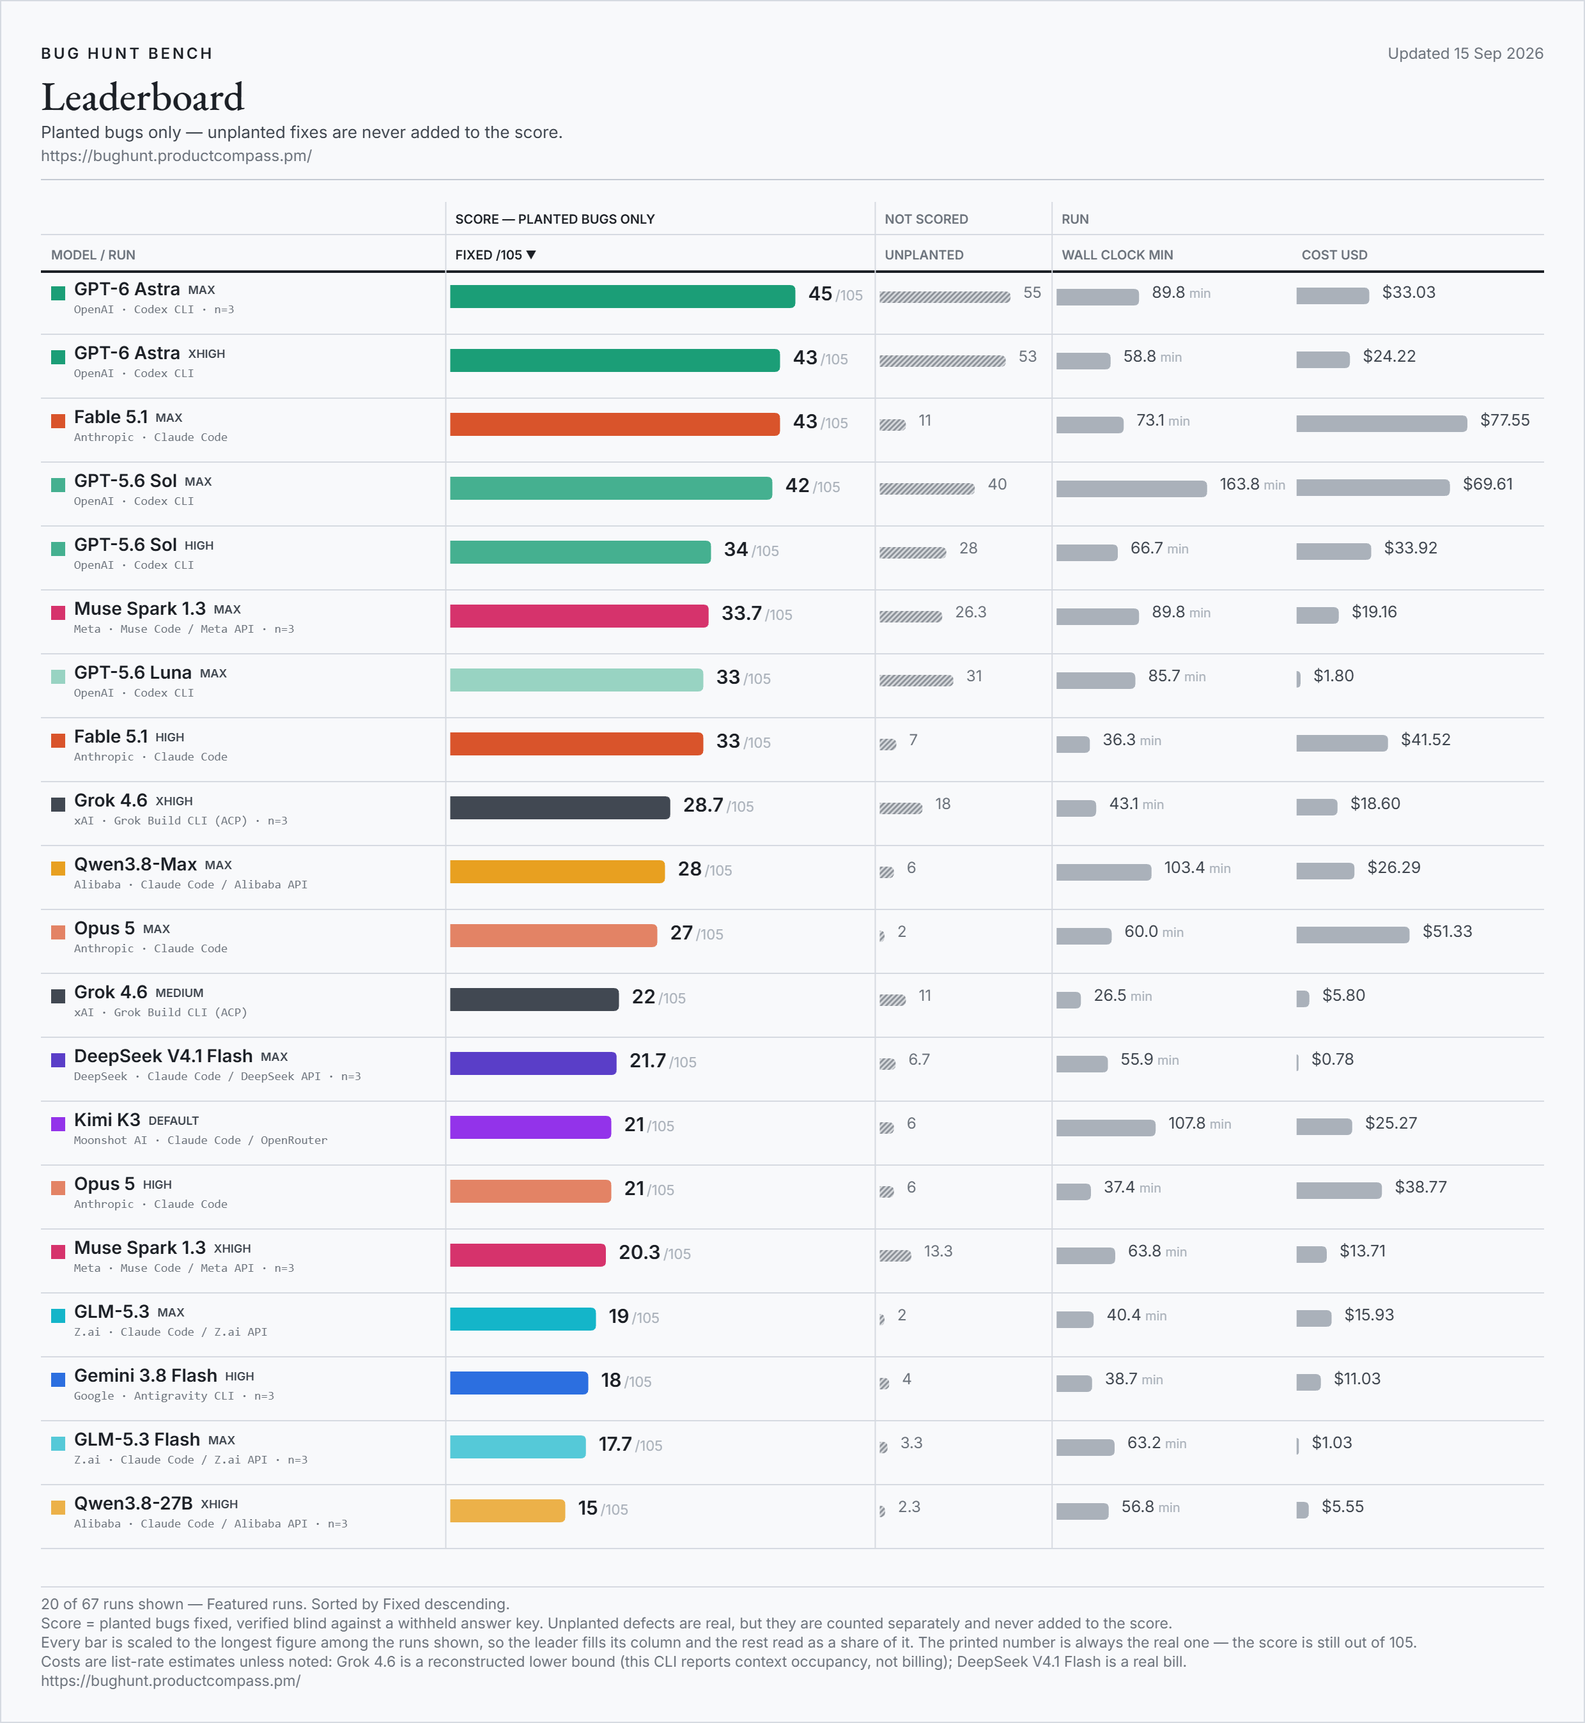
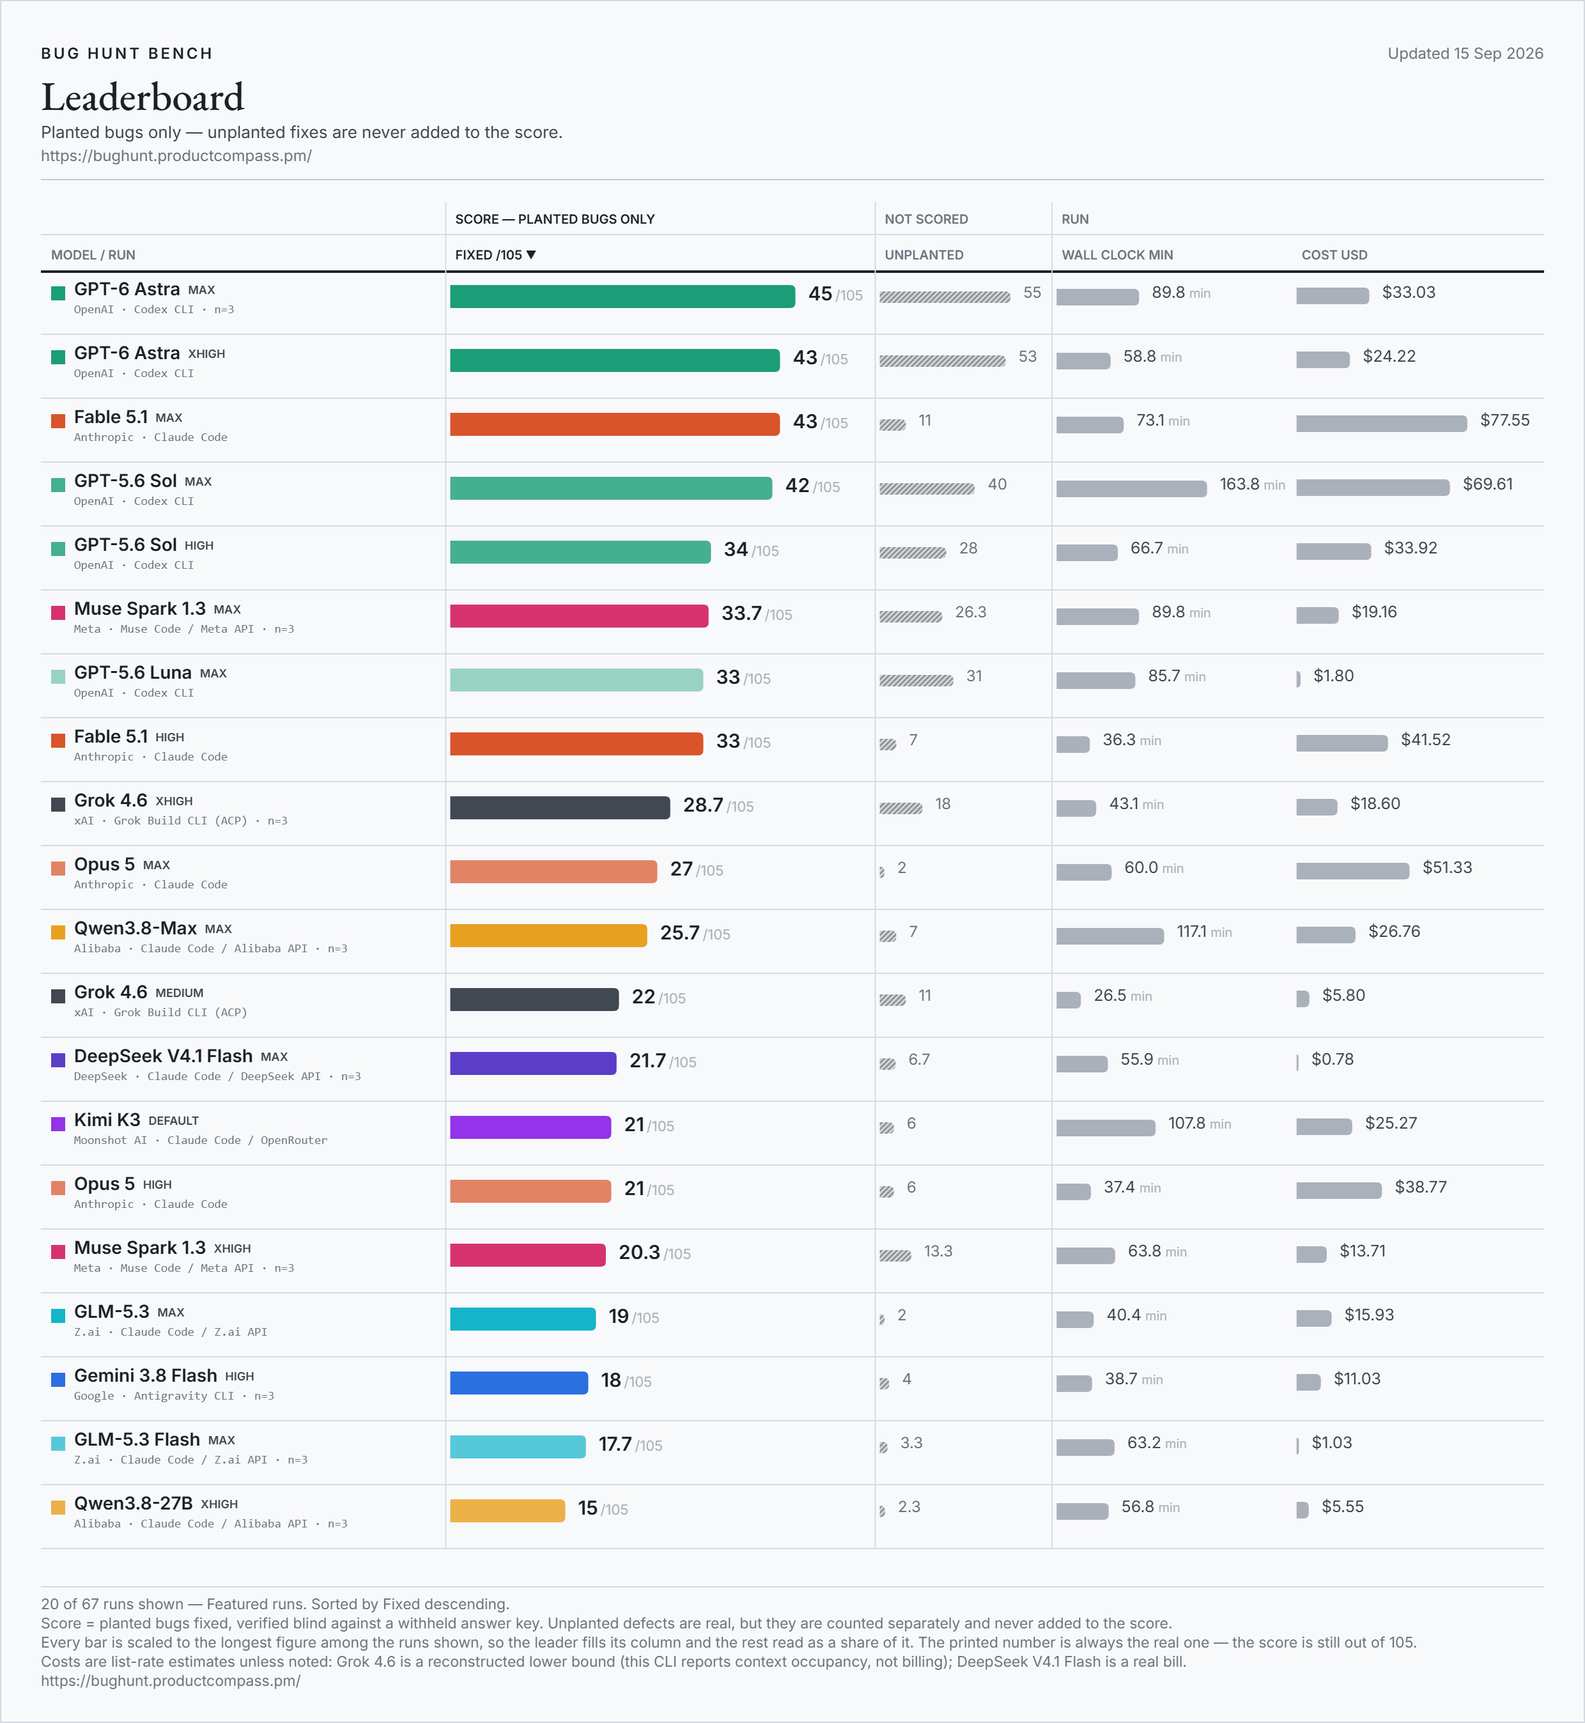
bug hunt bench: Qwen3.8-Max (max effort, Alibaba API) - mean of 3 (25.7/105)

diff --git a/results/run-notes.md b/results/run-notes.md
@@ -2,7 +2,7 @@
 
 Every row on the board, with the note and caveat it carries. Generated from `data/benchmark.json` by `bench_golive.py` - do not edit by hand.
 
-Updated Sep 15, 2026 · 89 rows from 111 scored runs. Superseded rows are listed last.
+Updated Sep 15, 2026 · 90 rows from 114 scored runs. Superseded rows are listed last.
 
 ## GPT-6 Astra (max effort) - mean of 3
 
@@ -96,14 +96,6 @@ The row that completes Fable 5.1's dial, and the one that shows the dial does no
 
 The FIRST configuration outside Meta's effort dial to be run three times, published as the MEAN OF THREE INDEPENDENT RUNS. Runs scored 27, 30 and 29 of 105 (repo 1: 8, 14, 13 - repo 2: 19, 16, 16). Mean 28.7, range 3. *** WHAT THIS CORRECTS IS AN INFERENCE, NOT A NUMBER *** The single run this replaces scored 27, and its note read that as settled because the 2026-08-12 concurrent-legs run had also scored 27 - 'n=2 agreement'. Two further sequential runs came in at 30 and 29. The 27 was correct for the run that produced it; what does not survive is treating a pair of agreeing draws as a measurement of the rung. Both 27s sit at the bottom of the range this configuration actually spans. *** WHERE THE MOVEMENT IS, AND WHAT THAT IS WORTH *** The three totals span 3 points, but the per-repo legs span more: repo 1 scored 8, 14 and 13 of 45, repo 2 scored 19, 16 and 16 of 60. The repo-1 range alone is 6 points on a 45-bug repo, wider than the range of the totals it feeds. The legs moved in opposite directions and the totals landed close together. That is an OBSERVATION about three runs and nothing more - it is not a mechanism, and it is not a claim that totals are steadier than legs. Three draws cannot establish that, and this pattern arises from chance often enough to be unremarkable. *** RECEIPTS *** All six legs exited 0. Per-leg (repo 1 / repo 2): wall 19.1/22.0, 18.8/23.5 and 23.9/21.9 minutes; floor 6.84/10.12, 9.38/8.59 and 13.57/7.30 dollars. Genuine extras 16, 16 and 22. Claimed-only 1, 0 and 1, all on repo 1. COST IS A FLOOR, NOT A BILL: the grok CLI reports context occupancy rather than cumulative usage, so every grok row on this board is reconstructed from the CLI's own session logs at xAI list rates. The three floors are 16.96, 17.96 and 20.88 dollars and this row shows their mean. That spread is not pricing noise - the reconstruction scales with how many inference requests a run made (106, 118 and 128 across the three), so it tracks real differences in how much work the agent did. SEQUENTIAL legs throughout - one repo at a time, one machine, one key - which is what 'seq' means in the name and why this wall is comparable to the rest of the board. Effort verified active by a fresh zero-token ACP readback before each launch. Judge: Codex gpt-5.5 on all six legs.
 
-## Qwen3.8-Max (max effort, Alibaba API)
-
-**28 / 105** · repo 1 13/45 · repo 2 15/60 · 6 unplanted · 103.4 min · $26.29 · `max` · Claude Code / Alibaba API · single run · 2026-09-11
-
-**Caveat.** One run at this tier. The effort ceiling is real but flat: the same probe shows high (9946-14061), xhigh (8266-19309) and max (6542-14902) are mutually indistinguishable with means that fall as the nominal tier rises, so max is the top of the dial and buys nothing measurable over high - the same two-rung shape the Qwen3.8-Flash probe found, which suggests it is a property of Alibaba's serving rather than of either model. Note also that this endpoint's accept-list CONTRADICTS the QwenCloud doc the superseded row relied on (low|medium|xhigh with high->xhigh), which is one more reason that row's tier claim was never safe. Cost is a list-price ESTIMATE and not a bill - DashScope exposes no credits API on this path - computed from the run's own token counts at 2.00 in / 2.50 cache-write / 0.25 cache-read / 6.00 out per MTok, from OpenRouter's Alibaba-endpoint listing. Finally, do NOT read the 9-point gain as caused by the path. It is n=1 against n=1 and almost all of it is one repo - repo 1 went 5/45 to 13/45 while repo 2 moved by one - and this board has seen the same model at the same setting swing 6 points on repo 1 (Opus 5 at medium: 11/8/14). A systematic path effect should have moved both repos and did not, so the score difference is unexplained and may simply be variance. What the pair DOES establish beyond variance is the cost and token behaviour, where the gap is ~5,000x and not a coin flip.
-
-The Aug 3 Qwen3.8-Max row re-run on Alibaba's OWN Anthropic-compatible endpoint - no local proxy, no aggregator - and it is the clearest demonstration on this board that a row records a SERVING PATH and not just a model. Same model, same harness, same two repos, same laptop, one hop removed: 28/105 against 19/105, 103.4 min against 148.1, $26.29 against $33.30. Nine points more for a fifth less money and a third less time, and the gain is concentrated in repo 1, which went 5/45 to 13/45. The mechanism is visible in the token columns. The OpenRouter run billed 12.94% of its prompt tokens as UNCACHED INPUT - 8,282,777 of them, $16.57, half that row's cost - while this one billed 0.0019%, or 1,716 tokens across both legs. Caching that keeps working means the model keeps its context instead of rebuilding it, which is why output ROSE 23% (168,395 tokens against 136,426) while wall time FELL: it did more thinking and less re-reading. Effort here is measured, not requested - the endpoint 400-rejects an invented tier and names its accept-list (low, medium, high, xhigh, max), and an n=3-per-tier probe on this exact path separates the bottom of the dial cleanly (mean output tokens low=4495 against high=12422, low's range overlapping none of the top three, 3.09x between-tier ratio against a 2.34x worst within-tier spread). 28 strict matches, 2 partials, 3 claimed-only, 6 genuine unplanted extras.
-
 ## GPT-6 Astra (low effort)
 
 **27 / 105** · repo 1 18/45 · repo 2 9/60 · 25 unplanted · 32.1 min · $11.69 · `low` · Codex CLI · single run · 2026-09-05
@@ -125,6 +117,14 @@ The top of Alibaba's own accept-list on Alibaba's own Anthropic-compatible endpo
 **26 / 105** · repo 1 14/45 · repo 2 12/60 · 3 unplanted · 49.9 min · $59.59 · `xhigh` · Claude Code · single run · 2026-08-28
 
 The Opus dial is nearly flat at the top: high 21, medium 24, xhigh 26, max 27.
+
+## Qwen3.8-Max (max effort, Alibaba API) - mean of 3
+
+**25.7 / 105** · repo 1 12.3/45 · repo 2 13.3/60 · 7 unplanted · 117.1 min · $26.76 · `max` · Claude Code / Alibaba API · mean of 3 runs · 2026-09-15
+
+**Caveat.** Superseded row: the single 28/105 run published 2026-09-11 stays on the board, marked superseded, not deleted - it is the best of the three, and the mean is the number the board leads with per the standing rule that a rung measured three times publishes at n=3.
+
+Runs scored 28, 24 and 25 of 105 (repo 1: 13, 11, 13 - repo 2: 15, 13, 12). Mean 25.7, range 4. This replication moves the row DOWN, not up: the single run published 2026-09-11 was the best of the three (28), and the mean sits 2.3 points below it - the opposite of the Qwen3.8-27B replication, which held steady on its mean. Regime check: SAME REGIME (gbvb); SAME REGIME (abhb). First-party max effort, Alibaba's own DashScope endpoint, native precision, 1,000,000 declared context - same endpoint and declaration as the superseded single run. Cost quoted here is the MEAN per-run cost across the three legs (26.29, 29.85, 24.15), not their sum; the three runs together cost 80.29 dollars, all list-rate estimates - this endpoint publishes no usage API, so none of these figures are a real bill.
 
 ## Opus 5 (medium effort)
 
@@ -425,6 +425,16 @@ Meta's OWN agent driving Meta's OWN model on Meta's OWN endpoint, at the top of 
 **31 / 105** · repo 1 13/45 · repo 2 18/60 · 38 unplanted · 70.2 min · $29.16 · `high` · Codex CLI · single run · 2026-07-26
 
 **Superseded.** Superseded by the Jul 31 re-run on the same setting (serving-side change, not a new model).
+
+## Qwen3.8-Max (max effort, Alibaba API)
+
+**28 / 105** · repo 1 13/45 · repo 2 15/60 · 6 unplanted · 103.4 min · $26.29 · `max` · Claude Code / Alibaba API · single run · 2026-09-11
+
+**Superseded.** Qwen3.8-Max (max effort, Alibaba API) - mean of 3
+
+**Caveat.** One run at this tier. The effort ceiling is real but flat: the same probe shows high (9946-14061), xhigh (8266-19309) and max (6542-14902) are mutually indistinguishable with means that fall as the nominal tier rises, so max is the top of the dial and buys nothing measurable over high - the same two-rung shape the Qwen3.8-Flash probe found, which suggests it is a property of Alibaba's serving rather than of either model. Note also that this endpoint's accept-list CONTRADICTS the QwenCloud doc the superseded row relied on (low|medium|xhigh with high->xhigh), which is one more reason that row's tier claim was never safe. Cost is a list-price ESTIMATE and not a bill - DashScope exposes no credits API on this path - computed from the run's own token counts at 2.00 in / 2.50 cache-write / 0.25 cache-read / 6.00 out per MTok, from OpenRouter's Alibaba-endpoint listing. Finally, do NOT read the 9-point gain as caused by the path. It is n=1 against n=1 and almost all of it is one repo - repo 1 went 5/45 to 13/45 while repo 2 moved by one - and this board has seen the same model at the same setting swing 6 points on repo 1 (Opus 5 at medium: 11/8/14). A systematic path effect should have moved both repos and did not, so the score difference is unexplained and may simply be variance. What the pair DOES establish beyond variance is the cost and token behaviour, where the gap is ~5,000x and not a coin flip.
+
+The Aug 3 Qwen3.8-Max row re-run on Alibaba's OWN Anthropic-compatible endpoint - no local proxy, no aggregator - and it is the clearest demonstration on this board that a row records a SERVING PATH and not just a model. Same model, same harness, same two repos, same laptop, one hop removed: 28/105 against 19/105, 103.4 min against 148.1, $26.29 against $33.30. Nine points more for a fifth less money and a third less time, and the gain is concentrated in repo 1, which went 5/45 to 13/45. The mechanism is visible in the token columns. The OpenRouter run billed 12.94% of its prompt tokens as UNCACHED INPUT - 8,282,777 of them, $16.57, half that row's cost - while this one billed 0.0019%, or 1,716 tokens across both legs. Caching that keeps working means the model keeps its context instead of rebuilding it, which is why output ROSE 23% (168,395 tokens against 136,426) while wall time FELL: it did more thinking and less re-reading. Effort here is measured, not requested - the endpoint 400-rejects an invented tier and names its accept-list (low, medium, high, xhigh, max), and an n=3-per-tier probe on this exact path separates the bottom of the dial cleanly (mean output tokens low=4495 against high=12422, low's range overlapping none of the top three, 3.09x between-tier ratio against a 2.34x worst within-tier spread). 28 strict matches, 2 partials, 3 claimed-only, 6 genuine unplanted extras.
 
 ## Grok 4.6 (xhigh) seq
 

diff --git a/README.md b/README.md
@@ -9,11 +9,11 @@ If the numbers save you a benchmark run of your own, **star this repo** — that
 <!-- leaderboard:start -->
 ![Bug Hunt Bench leaderboard, the featured runs, updated Sep 15, 2026](assets/leaderboard.png?v=2026-09-15)
 
-**Updated Sep 15, 2026 · 89 rows from 111 scored runs · 29 models · 35 of 105 bugs have never been fixed by any model.**
+**Updated Sep 15, 2026 · 90 rows from 114 scored runs · 29 models · 35 of 105 bugs have never been fixed by any model.**
 
 **Current leader:** GPT-6 Astra at `max` effort — **45 / 105** (22/45 on repo 1, 23/60 on repo 2).
 
-**Best per lab:** OpenAI: GPT-6 Astra (`max`) 45 · Anthropic: Fable 5.1 (`max`) 43 · Meta: Muse Spark 1.3 (`max`) 33.7 · xAI: Grok 4.6 (`xhigh`) 28.7 · Alibaba: Qwen3.8-Max (`max`) 28 · Google: Gemini 3.7 Flash (`high`) 22 · DeepSeek: DeepSeek V4.1 Flash (`max`) 21.7 · Moonshot AI: Kimi K3 (`default`) 21 · Z.ai: GLM-5.3 (`max`) 19 · Tencent: Hy4 Preview (`default`) 18 · OpenAI (open weights): gpt-oss-20b (`default`) 0
+**Best per lab:** OpenAI: GPT-6 Astra (`max`) 45 · Anthropic: Fable 5.1 (`max`) 43 · Meta: Muse Spark 1.3 (`max`) 33.7 · xAI: Grok 4.6 (`xhigh`) 28.7 · Alibaba: Qwen3.8-Flash (`max`) 26 · Google: Gemini 3.7 Flash (`high`) 22 · DeepSeek: DeepSeek V4.1 Flash (`max`) 21.7 · Moonshot AI: Kimi K3 (`default`) 21 · Z.ai: GLM-5.3 (`max`) 19 · Tencent: Hy4 Preview (`default`) 18 · OpenAI (open weights): gpt-oss-20b (`default`) 0
 
 | # | Model | Harness | Effort | Runs | Fixed /105 | Repo 1 /45 | Repo 2 /60 | Extras | Wall | Cost | Date |
 |--:|---|---|---|--:|--:|--:|--:|--:|--:|--:|---|
@@ -34,11 +34,11 @@ If the numbers save you a benchmark run of your own, **star this repo** — that
 | 15 | Fable 5.1 | Claude Code | xhigh | 1 | **29** | 13 | 16 | 4 | 60 min | $40.42 | 2026-09-10 |
 | 16 | Fable 5 | Claude Code | max | 1 | **29** | 12 | 17 | 5 | 57 min | $104.49 | 2026-08-01 |
 | 17 | Grok 4.6 | Grok Build CLI (ACP) | xhigh | 3 | **28.7** | 11.7 | 17 | 18 | 43 min | $18.60 floor | 2026-09-14 |
-| 18 | Qwen3.8-Max | Claude Code / Alibaba API | max | 1 | **28** | 13 | 15 | 6 | 103 min | $26.29 | 2026-09-11 |
-| 19 | GPT-6 Astra | Codex CLI | low | 1 | **27** | 18 | 9 | 25 | 32 min | $11.69 | 2026-09-05 |
-| 20 | Opus 5 | Claude Code | max | 1 | **27** | 13 | 14 | 2 | 60 min | $51.33 | 2026-08-01 |
-| 21 | Qwen3.8-Flash | Claude Code / Alibaba API | max | 1 | **26** | 13 | 13 | 7 | 97 min | $1.81 | 2026-09-11 |
-| 22 | Opus 5 | Claude Code | xhigh | 1 | **26** | 14 | 12 | 3 | 50 min | $59.59 | 2026-08-28 |
+| 18 | GPT-6 Astra | Codex CLI | low | 1 | **27** | 18 | 9 | 25 | 32 min | $11.69 | 2026-09-05 |
+| 19 | Opus 5 | Claude Code | max | 1 | **27** | 13 | 14 | 2 | 60 min | $51.33 | 2026-08-01 |
+| 20 | Qwen3.8-Flash | Claude Code / Alibaba API | max | 1 | **26** | 13 | 13 | 7 | 97 min | $1.81 | 2026-09-11 |
+| 21 | Opus 5 | Claude Code | xhigh | 1 | **26** | 14 | 12 | 3 | 50 min | $59.59 | 2026-08-28 |
+| 22 | Qwen3.8-Max | Claude Code / Alibaba API | max | 3 | **25.7** | 12.3 | 13.3 | 7 | 117 min | $26.76 | 2026-09-15 |
 | 23 | Opus 5 | Claude Code | medium | 1 | **24** | 11 | 13 | 4 | 30 min | $34.77 | 2026-08-27 |
 | 24 | Fable 5 | Claude Code | high | 1 | **24** | 9 | 15 | 3 | 31 min | $68.07 | 2026-07-26 |
 | 25 | Qwen3.8-Flash | Claude Code / Alibaba API | low | 1 | **23** | 11 | 12 | 7 | 98 min | $1.37 | 2026-09-11 |
@@ -90,7 +90,7 @@ If the numbers save you a benchmark run of your own, **star this repo** — that
 Extras are real, unplanted defects a model fixed on the way; they are counted and never added to the score. Costs are token estimates at published list rates unless tagged **bill** (an actual invoice or credits delta) or **floor** (a reconstructed lower bound). `default` effort means the serving path had no working effort dial; *ran lower* marks a run whose CLI quietly replaced the requested tier. Wall clock is repo 1 plus repo 2 agent time, dependency install excluded.
 Every row's full note, caveat and supersession history is in [results/run-notes.md](https://github.com/phuryn/bug-hunt-bench/blob/main/results/run-notes.md); the runs behind each one are in the metrics CSVs.
 
-22 superseded re-runs stay in the CSVs and on the [live board](https://bughunt.productcompass.pm/?preset=all) but are left off this table.
+23 superseded re-runs stay in the CSVs and on the [live board](https://bughunt.productcompass.pm/?preset=all) but are left off this table.
 <!-- leaderboard:end -->
 
 ## What Bug Hunt Bench is

diff --git a/results/waves.md b/results/waves.md
@@ -2732,3 +2732,29 @@ The first-party row is a mean of 15, 13 and 17. This is a single 8 with no measu
 own. Eleven configurations on this board have been run three times and their ranges run from 2 to
 9 points, so a lone number here carries an error bar this run cannot show. It is published as n=1
 on purpose, and it is not in the default view: rows below 19 of 105 stay off the front page.
+## Sep 15 (later still, cont.) — Qwen3.8-Max joins the replication program, and moves DOWN
+
+**Qwen3.8-Max `max effort`, Alibaba's own endpoint, three runs: 28, 24 and 25 of 105. Mean 25.7,
+range 4.**
+
+This is the first replication on this board where the mean moved the row **down** rather than
+confirming it. The single run published Sep 11 was the best of the three (28); the other two came
+back at 24 and 25. Nothing about the setup changed between legs — same endpoint, same declared
+context, same effort tier — so the direction is simply what n=1 risks: a single run can land on
+either side of a model's true rate, and this one landed on the favorable side.
+
+### Regime check: SAME REGIME on both repos
+
+All three runs resolved the same model at the declared 1,000,000-token window, first-party,
+max effort. Cost quoted on the mean row is the **average of the three per-run costs** (26.29,
+29.85, 24.15), not their sum — the three runs together cost $80.29, all list-rate estimates,
+since this endpoint publishes no usage API.
+
+### Where the replication programme stands
+
+Twelve configurations have now been run three times. Qwen3.8-Max joins the middle of the range —
+tighter than most of the board's replications, in line with its Qwen3.8-27B sibling published
+earlier today.
+
+The superseded single run stays on the board, not deleted — it is the strongest of the three, and
+the mean is what leads per the standing rule that any rung run three times publishes at n=3.
